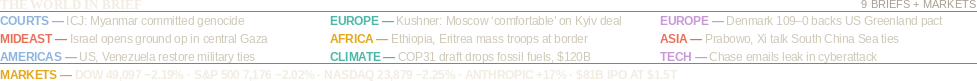
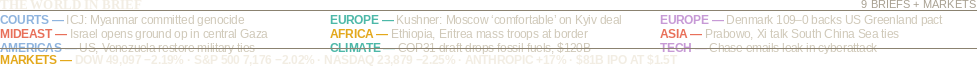
v5: add CRYPTO & SOLANA module
Red bar + SOL $72.71 -2.86% + whale unstake 2.31M SOL ($169M) to
Coinbase Prime (Lookonchain) + BTC $61,510 -2.7% / ETH $1,733 -2.3% /
SOL ETFs +$11.6M end 24-day outflow (SoSoValue) / FEAR 12 (CoinGecko).
Rebalance: masthead 56pt, headline 34pt, card photos 232x72, deck
dateline merged into deck row. Hero crop, 5 headlines, digest kept.
Judge Nemotron 7.7. PNG 925925 bytes.

diff --git a/main.py b/main.py
@@ -18,54 +18,55 @@ RED = (192, 57, 43)
 RED_HI = (231, 76, 60)
 
 PHOTOS = [
-    ("hero_976x420.png", 24, 211),
-    ("gta_232x80.png", 24, 671),
-    ("akvan_232x80.png", 272, 671),
-    ("voyager_232x80.png", 520, 671),
-    ("hayabusa_232x80.png", 768, 671),
+    ("hero_976x420.png", 24, 195),
+    ("gta_232x72.png", 24, 644),
+    ("akvan_232x72.png", 272, 644),
+    ("voyager_232x72.png", 520, 644),
+    ("hayabusa_232x72.png", 768, 644),
 ]
 
 TEXTS = [
-    ("t_volume.png", 449, 7),
-    ("t_masthead.png", 325, 30),
-    ("t_dateline.png", 369, 85),
-    ("t_hero_kicker.png", 24, 116),
-    ("t_chip.png", 842, 111),
-    ("t_hero_head.png", 24, 140),
-    ("t_deck.png", 25, 641),
-    ("t_arc.png", 336, 657),
-    ("t_card0.png", 24, 761),
-    ("t_card1.png", 272, 761),
-    ("t_card2.png", 520, 761),
-    ("t_card3.png", 768, 761),
-    ("t_digest.png", 24, 884),
+    ("t_volume.png", 449, 6),
+    ("t_masthead.png", 337, 27),
+    ("t_dateline.png", 376, 77),
+    ("t_hero_kicker.png", 24, 106),
+    ("t_chip.png", 842, 101),
+    ("t_hero_head.png", 24, 129),
+    ("t_deck.png", 25, 623),
+    ("t_card0.png", 24, 726),
+    ("t_card1.png", 272, 726),
+    ("t_card2.png", 520, 726),
+    ("t_card3.png", 768, 726),
+    ("t_crypto.png", 24, 846),
+    ("t_digest.png", 24, 903),
     ("t_foot_l.png", 24, 985),
-    ("t_foot_c.png", 204, 986),
+    ("t_foot_c.png", 192, 987),
     ("t_foot_r.png", 849, 985),
 ]
 
 HLINES = [
-    (24, 1000, 75, 1, HAIRLINE),
-    (24, 1000, 105, 1, RED_HI),
-    (24, 1000, 106, 2, RED),
-    (24, 1000, 667, 1, HAIRLINE),
+    (24, 1000, 69, 1, HAIRLINE),
+    (24, 1000, 96, 1, RED_HI),
+    (24, 1000, 97, 2, RED),
+    (24, 1000, 642, 1, HAIRLINE),
     (24, 1000, 978, 2, HAIRLINE),
 ]
 
 VLINES = [
-    (264, 675, 873, HAIRLINE),
-    (512, 675, 873, HAIRLINE),
-    (760, 675, 873, HAIRLINE),
-    (346, 898, 949, HAIRLINE),
-    (676, 898, 949, HAIRLINE),
+    (264, 648, 838, HAIRLINE),
+    (512, 648, 838, HAIRLINE),
+    (760, 648, 838, HAIRLINE),
+    (346, 916, 953, HAIRLINE),
+    (676, 916, 953, HAIRLINE),
 ]
 
 OUTLINES = [
-    (24, 211, 999, 630),
-    (24, 671, 255, 750),
-    (272, 671, 503, 750),
-    (520, 671, 751, 750),
-    (768, 671, 999, 750),
+    (24, 195, 999, 614),
+    (24, 644, 255, 711),
+    (272, 644, 503, 711),
+    (520, 644, 751, 711),
+    (768, 644, 999, 711),
+    (24, 846, 1000, 898),
 ]
 
 
